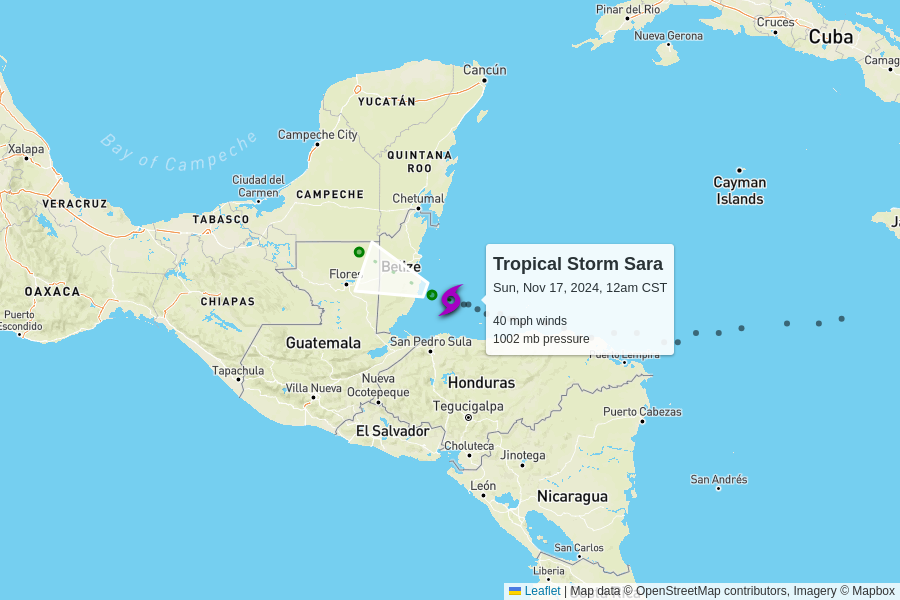
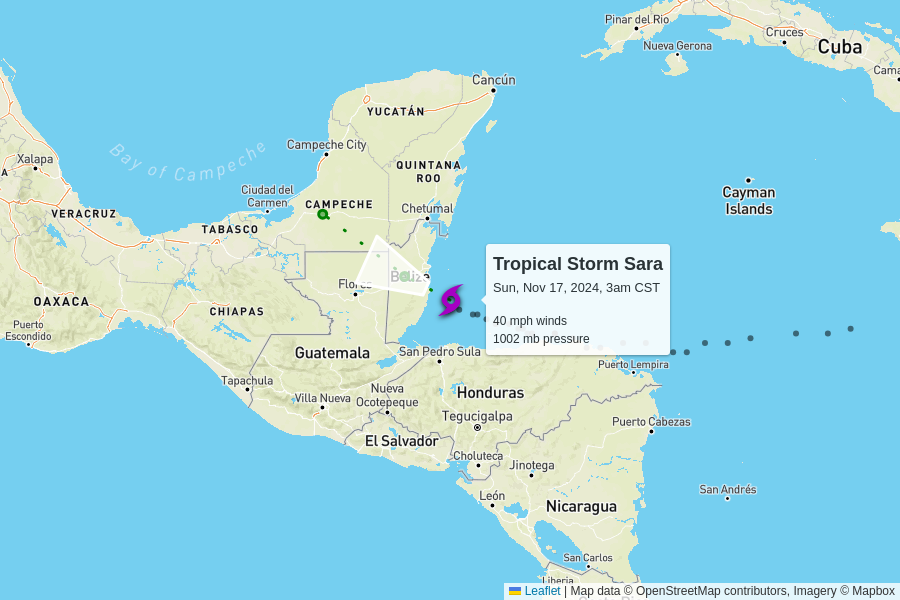
automatic update

diff --git a/docs/index.html b/docs/index.html
@@ -102,7 +102,7 @@
         <td colspan="6" class="storm category-0" >
           <h2>
             Tropical Storm Sara
-            <p class="updated">last updated <span data-time>2024-11-17T06:00:00.000Z</span></p>
+            <p class="updated">last updated <span data-time>2024-11-17T09:00:00.000Z</span></p>
           </h2>
         </td>
       </tr>
@@ -118,11 +118,11 @@
       <tr>
         <td class="spacer"></td>
         <td>40 mph<br>0 mph since last update</td>
-        <td>1002 mb<br>+1 mb since last update</td>
+        <td>1002 mb<br>0 mb since last update</td>
         <td>
           5 mph to the west-northwest
           <br/>
-          <span style="display: inline-block; font-size: 1.5em; transform: rotate(290deg);">↑</span>
+          <span style="display: inline-block; font-size: 1.5em; transform: rotate(295deg);">↑</span>
         </td>
         <td><a href="https://raw.githubusercontent.com/mgwalker/atlantic-hurricanes/main/data/csv/AL192024.csv">AL192024.csv</a></td>
         <td><a href="https://www.nhc.noaa.gov/archive/2024/SARA.shtml?">NHC advisories</a></td>
